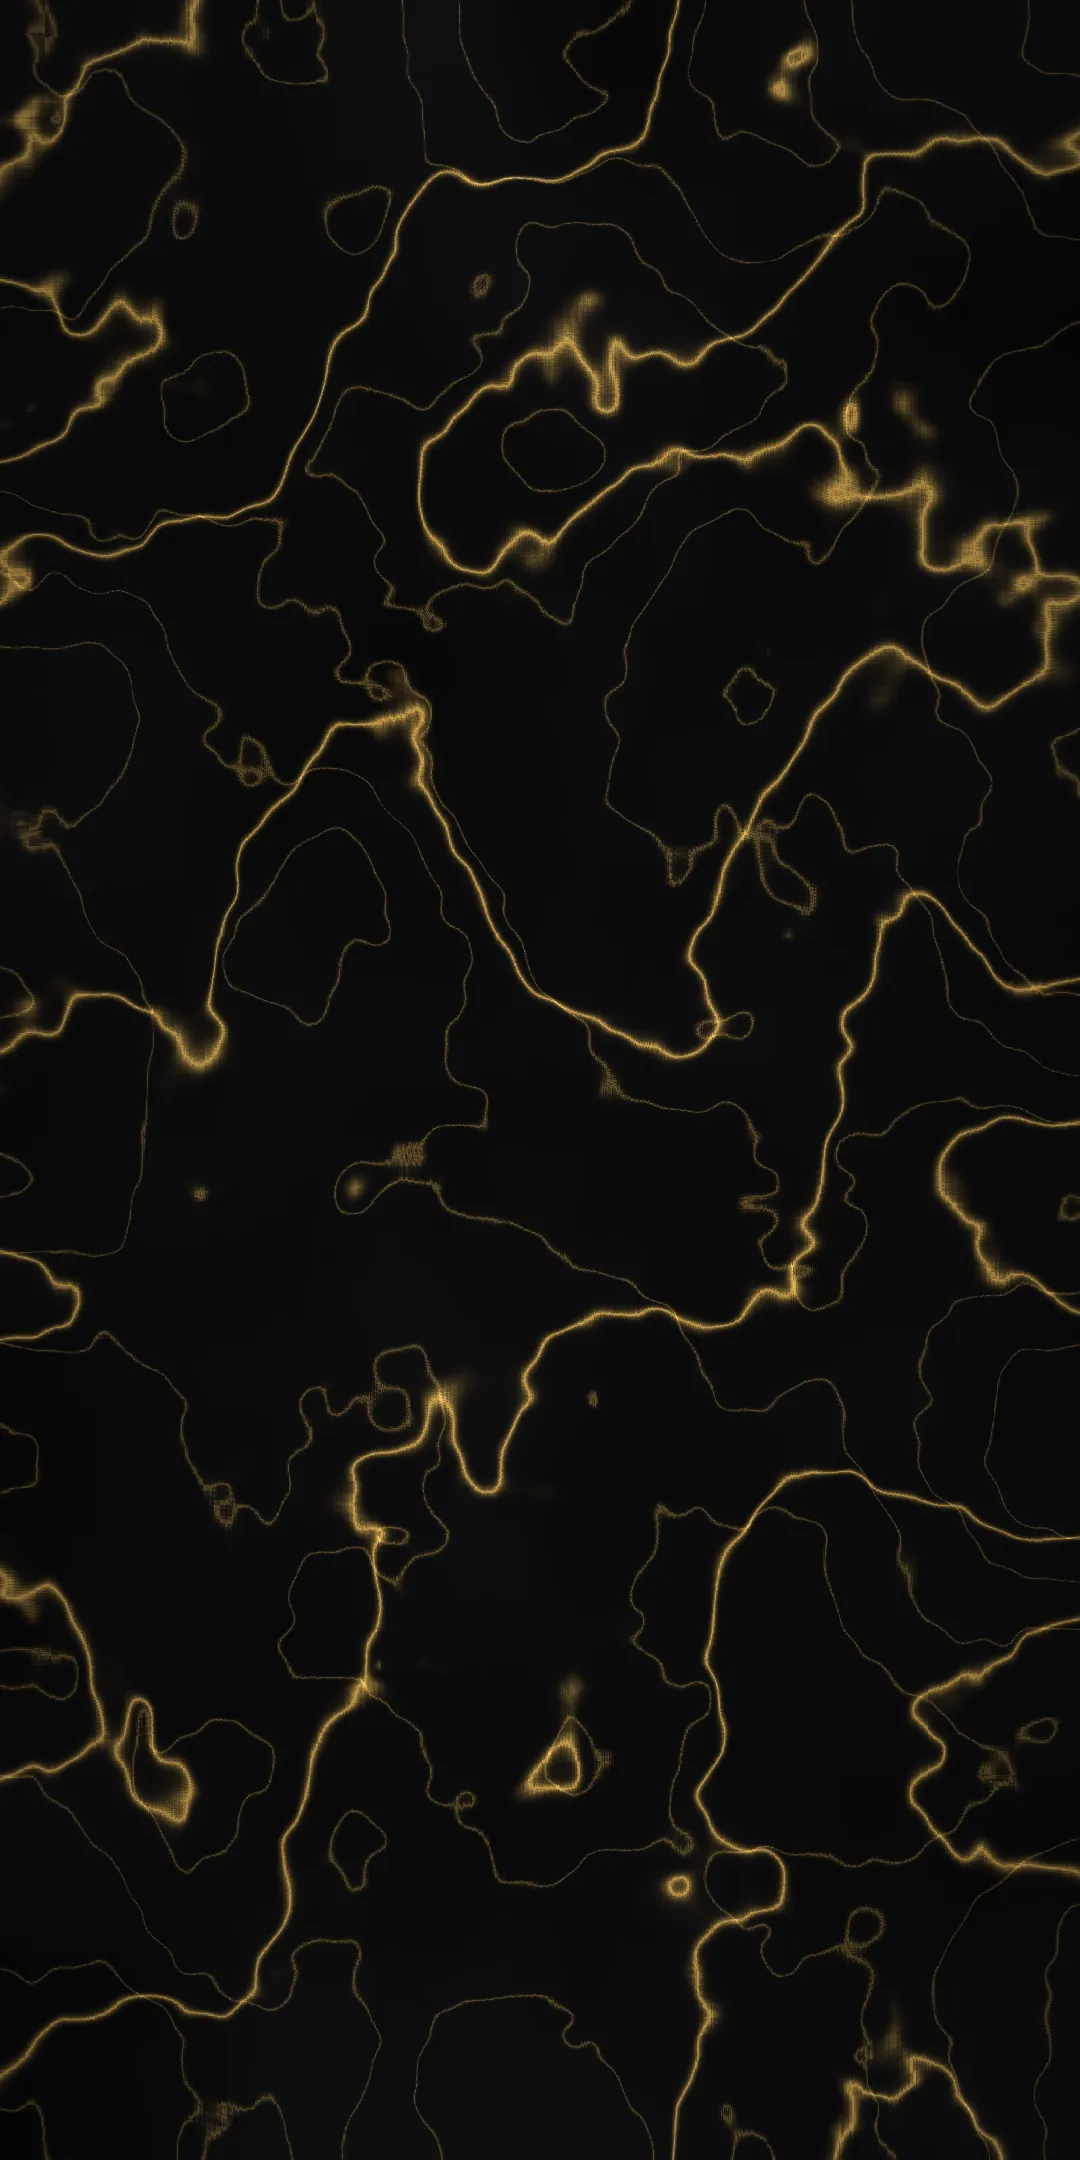
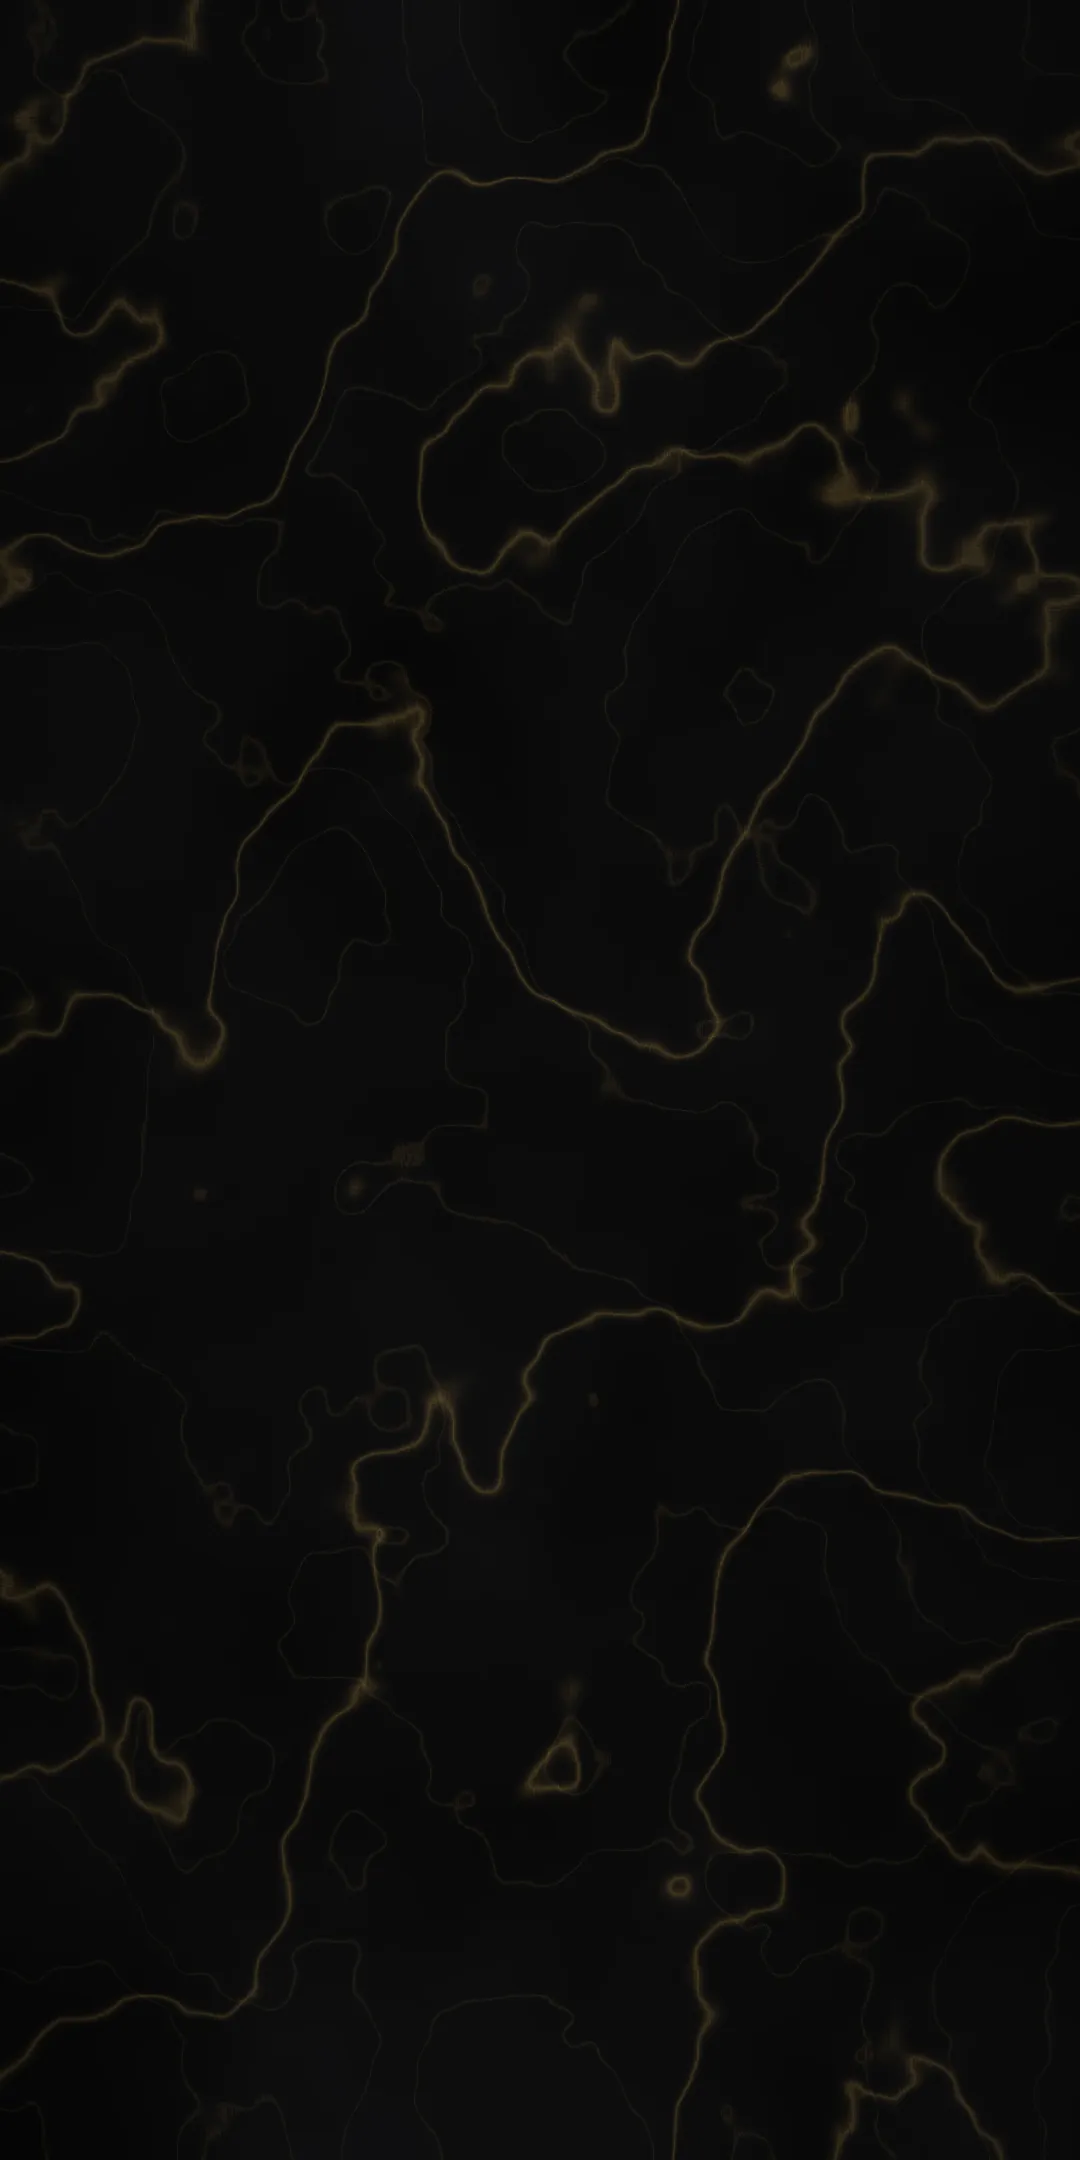
Home: quieter marble, obsidian scene, glass cards #18181C, hero quick-action pills, trend tags and bag outline instead of initials
Claude-Session: https://claude.ai/code/session_01ABLot2tmsMuzF3LFmpRSUW

diff --git a/src/web/pages/Dashboard.tsx b/src/web/pages/Dashboard.tsx
@@ -53,20 +53,29 @@ export default function Dashboard() {
       <Galaxy calm scene={scene} />
       <div className="home-glass relative mx-auto max-w-5xl space-y-6 px-4 pb-8 pt-4 md:px-8">
         {/* hero: the logo on a breathing gold halo and the line of what the app is (ink / muted, so it also reads on the ivory light theme) */}
-        <header className="hz-rise-in relative overflow-hidden rounded-3xl border border-gold/25 p-4 pr-3"
+        <header className="hz-rise-in relative overflow-hidden rounded-3xl border border-gold/25 p-3.5 pr-3"
           style={{ background: 'linear-gradient(135deg, rgba(242,202,80,0.14), rgba(255,255,255,0.04) 55%, rgba(108,64,170,0.12))', WebkitBackdropFilter: 'blur(10px)', backdropFilter: 'blur(10px)' }}>
           <span aria-hidden className="pointer-events-none absolute -right-10 -top-10 h-40 w-40 rounded-full" style={{ background: 'radial-gradient(circle, rgba(242,202,80,0.28), transparent 68%)' }} />
           <div className="relative flex items-center gap-3.5">
-            <span className="relative flex h-16 w-16 shrink-0 items-center justify-center">
+            <span className="relative flex h-14 w-14 shrink-0 items-center justify-center">
               <span aria-hidden className="hz-anim absolute inset-0 rounded-full" style={{ background: 'radial-gradient(circle, rgba(242,202,80,0.55), transparent 70%)', animation: 'hz-pulse 3.6s ease-in-out infinite' }} />
               <span aria-hidden className="hz-anim absolute inset-[3px] rounded-[1.1rem] border border-gold/50" style={{ animation: 'hz-float 5s ease-in-out infinite' }} />
-              <img src="/icons/icon-192.png" alt="" width={52} height={52} className="relative rounded-2xl shadow-[0_6px_20px_-4px_rgba(242,202,80,0.6)]" />
+              <img src="/icons/icon-192.png" alt="" width={46} height={46} className="relative rounded-2xl shadow-[0_6px_20px_-4px_rgba(242,202,80,0.6)]" />
             </span>
             <div className="min-w-0">
               <div className="font-mono text-[10px] uppercase tracking-[0.28em] text-gold">Anajak Bag</div>
               <h1 className="mt-0.5 font-serif text-[21px] font-medium leading-snug text-ink">{t('home.headline')}</h1>
               <p className="mt-1 text-xs leading-snug text-muted">{t('home.sub')}</p>
             </div>
+          </div>
+          {/* quick actions: straight into the two things vendors do most */}
+          <div className="relative mt-3 flex flex-wrap gap-2">
+            <Link to="/verify" className="inline-flex items-center gap-1.5 rounded-full bg-gradient-to-b from-[#E8CA82] to-[#C29846] px-3.5 py-1.5 text-xs font-semibold text-charcoal shadow-[0_6px_16px_-8px_rgba(242,202,80,0.9)]">
+              <Icon name="camera" size={14} />{t('home.pillScan')}
+            </Link>
+            <Link to="/paint" className="inline-flex items-center gap-1.5 rounded-full border border-gold/45 px-3.5 py-1.5 text-xs font-semibold text-gold">
+              <Icon name="palette" size={14} />{t('home.pillPaint')}
+            </Link>
           </div>
           {/* background picker: the choice is kept on this phone only */}
           <button type="button" aria-label={t('bg.title')} aria-expanded={pickOpen} onClick={() => setPickOpen((v) => !v)}
@@ -76,7 +85,7 @@ export default function Dashboard() {
           {pickOpen && (
             <div className="relative mt-3 border-t border-gold/20 pt-3">
               <div className="mb-2 text-[11px] font-semibold uppercase tracking-wider text-muted">{t('bg.title')}</div>
-              <div className="grid grid-cols-4 gap-2">
+              <div className="grid grid-cols-5 gap-1.5">
                 {SCENES.map((k) => (
                   <button key={k} type="button" onClick={() => { setScene(k); setPickOpen(false); }} aria-pressed={scene === k}
                     className={`overflow-hidden rounded-xl border-2 text-center ${scene === k ? 'border-gold' : 'border-transparent'}`}>

diff --git a/src/web/TrendShowcase.tsx b/src/web/TrendShowcase.tsx
@@ -5,7 +5,7 @@ import { MeContext } from './App.tsx';
 import { ADMIN_ROLES } from './studio.ts';
 import { COUNTRIES, Movement, modelImageUrl, monthLabel, priceText, type Country, type Overview, type TrendRow } from './Market.tsx';
 
-/** A model photo on a soft gold glow (cut-out photos float on it); the brand initial when there is no photo. */
+/** A model photo on a soft gold glow (cut-out photos float on it); a plain bag outline when there is no photo (never a letter). */
 function Shot({ r, size }: { r: TrendRow; size: 'lg' | 'sm' }) {
   const url = modelImageUrl(r);
   const box = size === 'lg' ? 'h-[88px] w-[88px] rounded-2xl' : 'h-9 w-9 rounded-lg';
@@ -13,9 +13,20 @@ function Shot({ r, size }: { r: TrendRow; size: 'lg' | 'sm' }) {
     <span className={`relative flex shrink-0 items-center justify-center overflow-hidden ${box}`}
       style={{ background: 'radial-gradient(circle at 50% 40%, rgba(212,175,95,0.35), rgba(212,175,95,0.06) 60%, transparent 75%), rgb(var(--c-surface-canvas))' }}>
       {url ? <img src={url} alt="" loading="lazy" className={`h-full w-full ${r.image_cutout ? 'object-contain p-1.5 drop-shadow-[0_8px_16px_rgba(0,0,0,0.6)]' : 'object-cover'}`} />
-        : <span className={`font-serif text-gold ${size === 'lg' ? 'text-4xl' : 'text-base'}`} aria-hidden>{r.brand.slice(0, 1)}</span>}
+        : <svg viewBox="0 0 24 24" fill="none" stroke="currentColor" strokeWidth={1.4} strokeLinecap="round" strokeLinejoin="round" className={`text-gold/70 ${size === 'lg' ? 'h-12 w-12' : 'h-5 w-5'}`} aria-hidden><path d="M5 9h14l1 11H4z" /><path d="M9 9V7a3 3 0 0 1 6 0v2" /></svg>}
     </span>
   );
+}
+
+/** Short tags from real data only: top-3 rank this month and the staff-entered movement. No made-up percentages. */
+function Tags({ r }: { r: TrendRow }) {
+  const { t } = useI18n();
+  const tags: string[] = [];
+  if (r.rank <= 3) tags.push(`🔥 ${t('tr.tagTop')}`);
+  if (r.movement === 'up') tags.push(`📈 ${t('tr.tagUp')}`);
+  if (r.movement === 'new') tags.push(`✨ ${t('tr.tagNew')}`);
+  if (!tags.length) return null;
+  return <div className="mt-1 flex flex-wrap gap-1">{tags.map((x) => <span key={x} className="rounded-full border border-gold/30 bg-gold/10 px-2 py-0.5 text-[10px] leading-4 text-gold">{x}</span>)}</div>;
 }
 
 /**
@@ -72,7 +83,7 @@ export default function TrendShowcase({ market }: { market: Overview | null }) {
               </div>
               <div className="truncate font-serif text-[22px] leading-tight">{first.model}</div>
               <div className="text-xs font-semibold text-gold">{priceText(first)}</div>
-              {first.note && <p className="mt-0.5 line-clamp-2 text-[11px] leading-snug text-muted">{first.note}</p>}
+              <Tags r={first} />
             </div>
           </Link>
         )}

diff --git a/src/web/Galaxy.tsx b/src/web/Galaxy.tsx
@@ -80,7 +80,7 @@ export default function Galaxy({ calm = false, scene = 'galaxy' }: { calm?: bool
         @media (prefers-reduced-motion: reduce) { .hz-anim, .hz-rise-in { animation: none !important } }
       `}</style>
       {/* home: a real picture of the Milky Way (85 KB) drifting very slowly; the clouds, stars and meteors below stay live on top of it */}
-      {calm && <div key={scene} className="hz-anim absolute" style={{ inset: '-6%', backgroundImage: `url(${SCENE_PIC[scene]})`, backgroundSize: 'cover', backgroundPosition: 'center', willChange: lite ? undefined : 'transform', animation: lite ? 'none' : 'hz-pan 90s ease-in-out infinite alternate' }} />}
+      {calm && <div key={scene} className="hz-anim absolute" style={{ inset: '-6%', backgroundImage: `url(${SCENE_PIC[scene]})`, backgroundSize: 'cover', backgroundPosition: 'center', willChange: lite ? undefined : 'transform', animation: lite || scene === 'obsidian' ? 'none' : 'hz-pan 90s ease-in-out infinite alternate' }} />}
       {space && (calm ? clouds.slice(0, 2) : clouds).map(([c, size, left, top, anim], i) => (
         <div key={i} className="hz-anim absolute rounded-full" style={{ width: size, height: size, left, top, background: `radial-gradient(circle, ${c}, transparent 70%)`, willChange: lite ? undefined : 'transform, opacity', animation: lite ? 'none' : anim }} />
       ))}

diff --git a/src/web/i18n.tsx b/src/web/i18n.tsx
@@ -423,6 +423,12 @@ const D: Record<string, { km: string; en: string }> = {
   'us.f.skill_draft': { km: 'Skill AI (រៀបចំ)', en: 'AI skill drafts' },
   'us.f.skill_test': { km: 'Skill AI (សាកល្បង)', en: 'AI skill tests' },
   'admin.tab.skills': { km: 'Skill AI', en: 'AI skills' },
+  'bg.obsidian': { km: 'ខ្មៅស្ងប់', en: 'Obsidian' },
+  'home.pillScan': { km: 'ស្កេនពិនិត្យកាបូប', en: 'Scan a bag' },
+  'home.pillPaint': { km: 'គណនារូបមន្តថ្នាំពណ៌', en: 'Paint recipe' },
+  'tr.tagTop': { km: 'លក់ដាច់', en: 'Best seller' },
+  'tr.tagUp': { km: 'កើនឡើង', en: 'Rising' },
+  'tr.tagNew': { km: 'ថ្មី', en: 'New' },
   'bg.title': { km: 'ផ្ទៃខាងក្រោយ', en: 'Background' },
   'bg.galaxy': { km: 'Galaxy', en: 'Galaxy' },
   'bg.aurora': { km: 'Aurora', en: 'Aurora' },

diff --git a/src/web/homeTheme.ts b/src/web/homeTheme.ts
@@ -1,10 +1,10 @@
 import { useCallback, useEffect, useState } from 'react';
 
 /** The Home screen's moving background. The choice stays on this phone only (localStorage), like a theme. */
-export const SCENES = ['galaxy', 'aurora', 'marble', 'silk'] as const;
+export const SCENES = ['galaxy', 'obsidian', 'aurora', 'marble', 'silk'] as const;
 export type HomeScene = (typeof SCENES)[number];
 export const SCENE_PIC: Record<HomeScene, string> = {
-  galaxy: '/galaxy/home-bg.webp', aurora: '/galaxy/aurora.webp', marble: '/galaxy/marble.webp', silk: '/galaxy/silk.webp',
+  galaxy: '/galaxy/home-bg.webp', obsidian: '/galaxy/obsidian.webp', aurora: '/galaxy/aurora.webp', marble: '/galaxy/marble.webp', silk: '/galaxy/silk.webp',
 };
 const KEY = 'hz_bg';
 

diff --git a/src/web/index.css b/src/web/index.css
@@ -103,7 +103,8 @@
 :root:not([data-theme='light']) .home-glass a.bg-surface-card:active { box-shadow: 0 0 0 1px rgba(242, 202, 80, 0.35), 0 10px 30px -12px rgba(242, 202, 80, 0.35); }
 :root:not([data-theme='light']) .home-glass .bg-surface-card,
 :root:not([data-theme='light']) .home-glass .from-surface-card {
-  background: linear-gradient(165deg, rgba(242, 202, 80, 0.09), rgba(255, 255, 255, 0.045) 45%, rgba(255, 255, 255, 0.03));
+  background: linear-gradient(165deg, rgba(24, 24, 28, 0.78), rgba(24, 24, 28, 0.62));
+  border-color: rgba(212, 175, 55, 0.25);
   -webkit-backdrop-filter: blur(12px);
   backdrop-filter: blur(12px);
 }

diff --git a/CLAUDE.md b/CLAUDE.md
@@ -11,4 +11,4 @@
 - UI strings go in `src/web/i18n.tsx` (km + en). Design tokens: `tailwind.config.js` (Haute Verification); references in `design-reference/stitch`.
 - Commands: `npm test` (engine), `npm run typecheck`, `npm run build`, `npx wrangler dev`.
 - Reference-photo guides (owner prompt, 2026-11-13, `GUIDE_SYSTEM_PROMPT` in `src/worker/vision.ts`): per box `popup_text` / `where_to_look` / `original_trait` / `fake_red_flag`, versioned (`GUIDE_VERSION`). They teach about the original reference model and common copy mistakes; they never judge a customer's bag. Counterfeit-labelled photos are never explained. Old guides are rewritten by the refresh job (Admin button + cron).
-- Home background (owner request, 2026-11-16): `Galaxy` has scenes galaxy / aurora / marble / silk (pictures in `src/web/public/galaxy/`); the choice is kept on the person's phone only (`src/web/homeTheme.ts`, localStorage `hz_bg`), default galaxy. Motion is transform-only and stops on lite phones / reduced motion.
+- Home background (owner request, 2026-11-16): `Galaxy` has scenes galaxy / obsidian / aurora / marble / silk (pictures in `src/web/public/galaxy/`); the choice is kept on the person's phone only (`src/web/homeTheme.ts`, localStorage `hz_bg`), default galaxy. Motion is transform-only and stops on lite phones / reduced motion.
